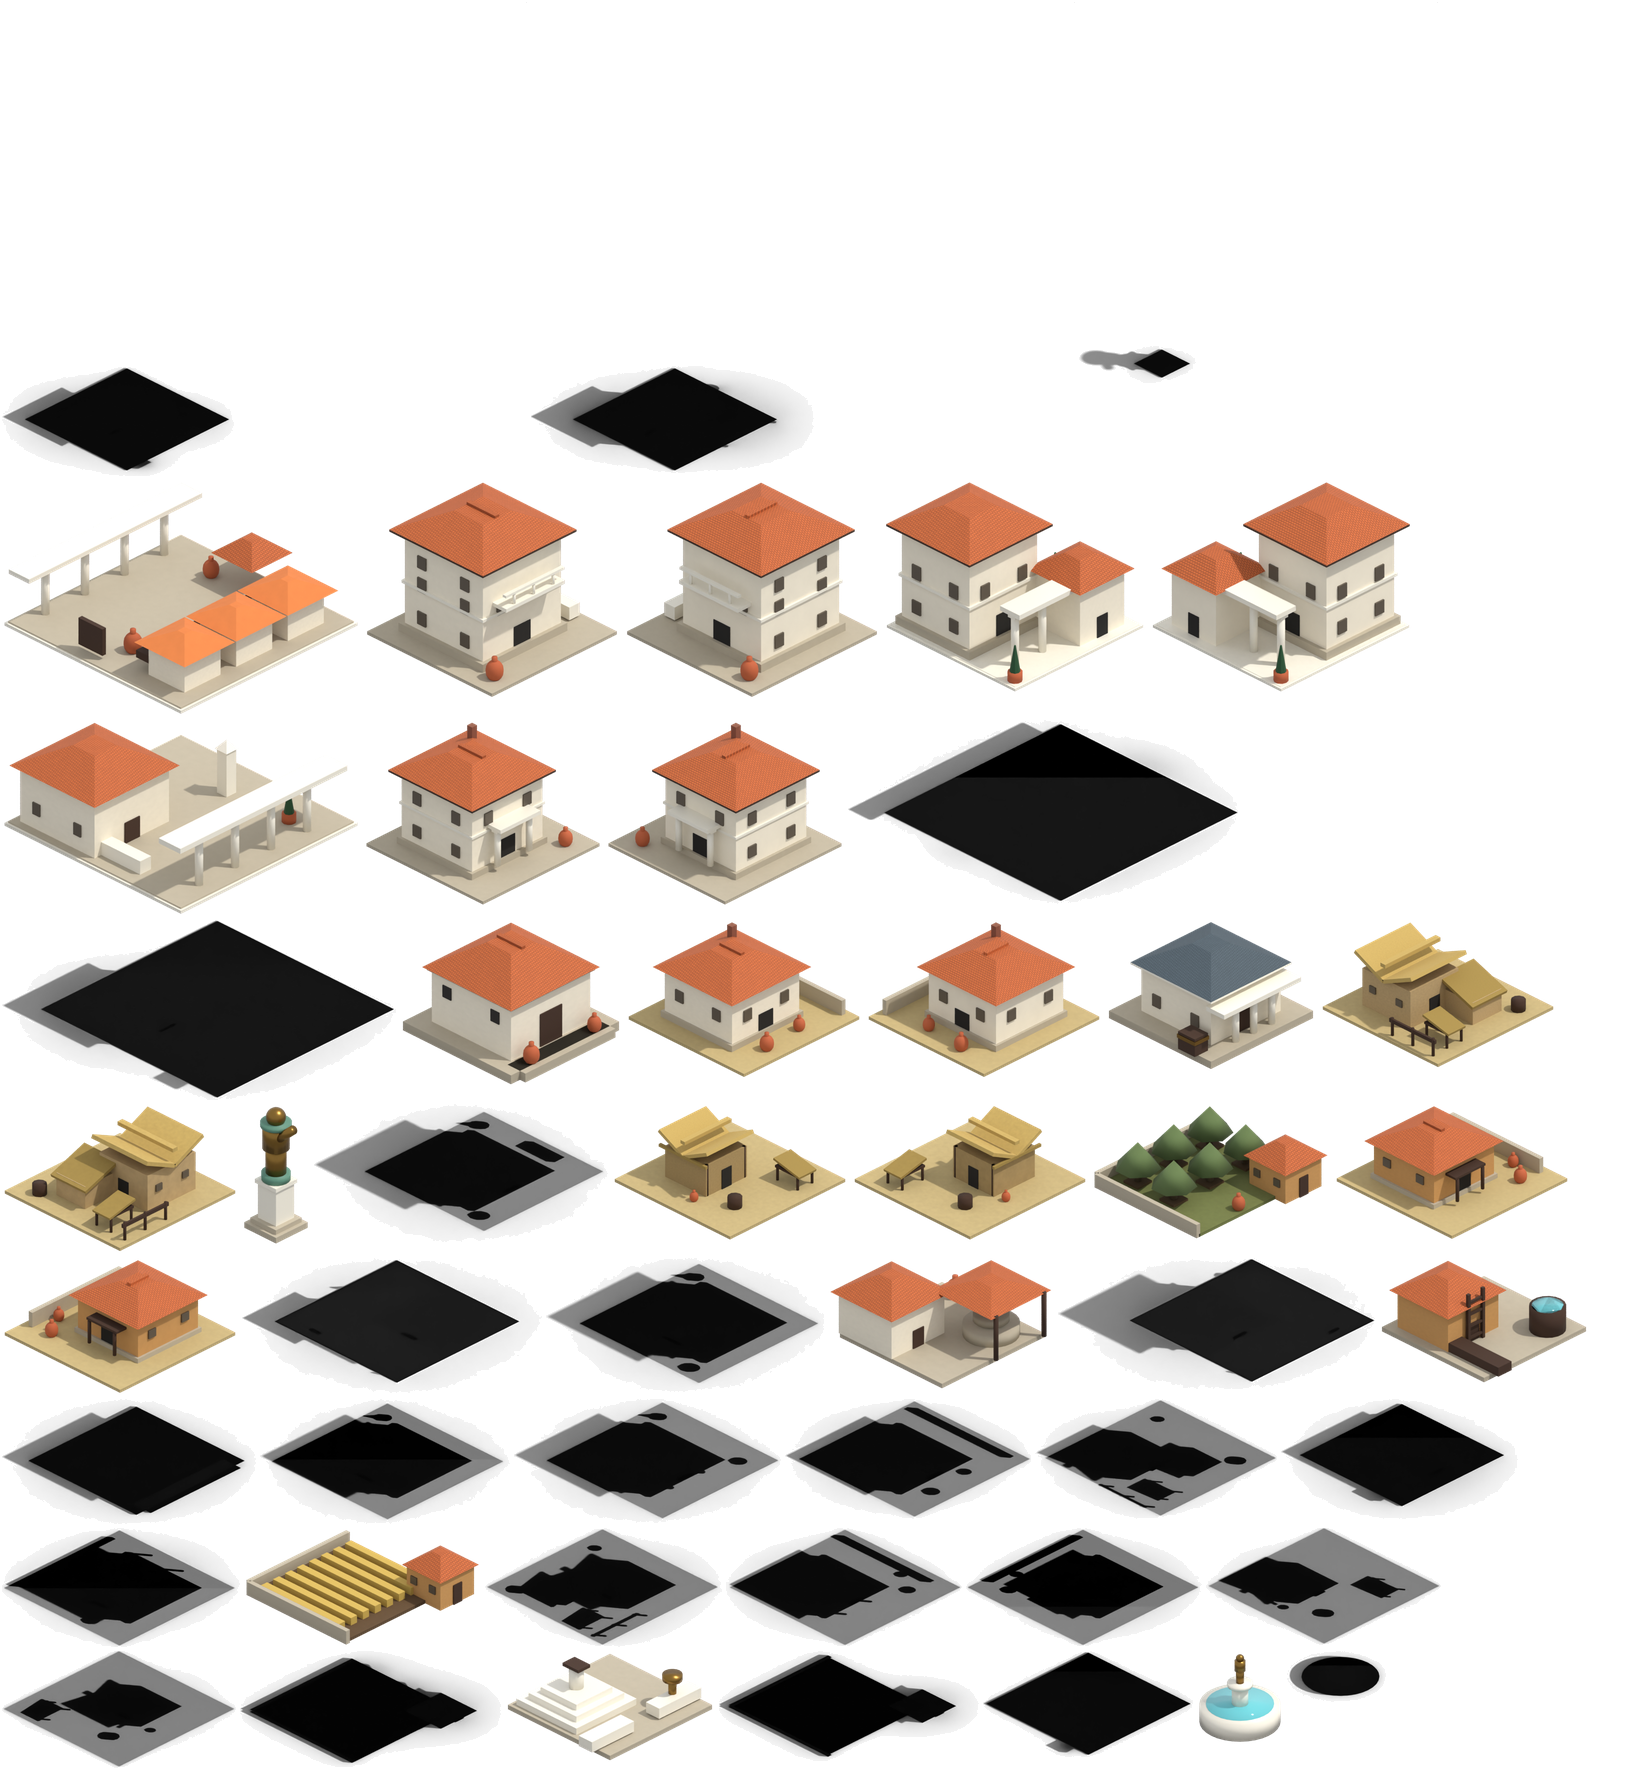
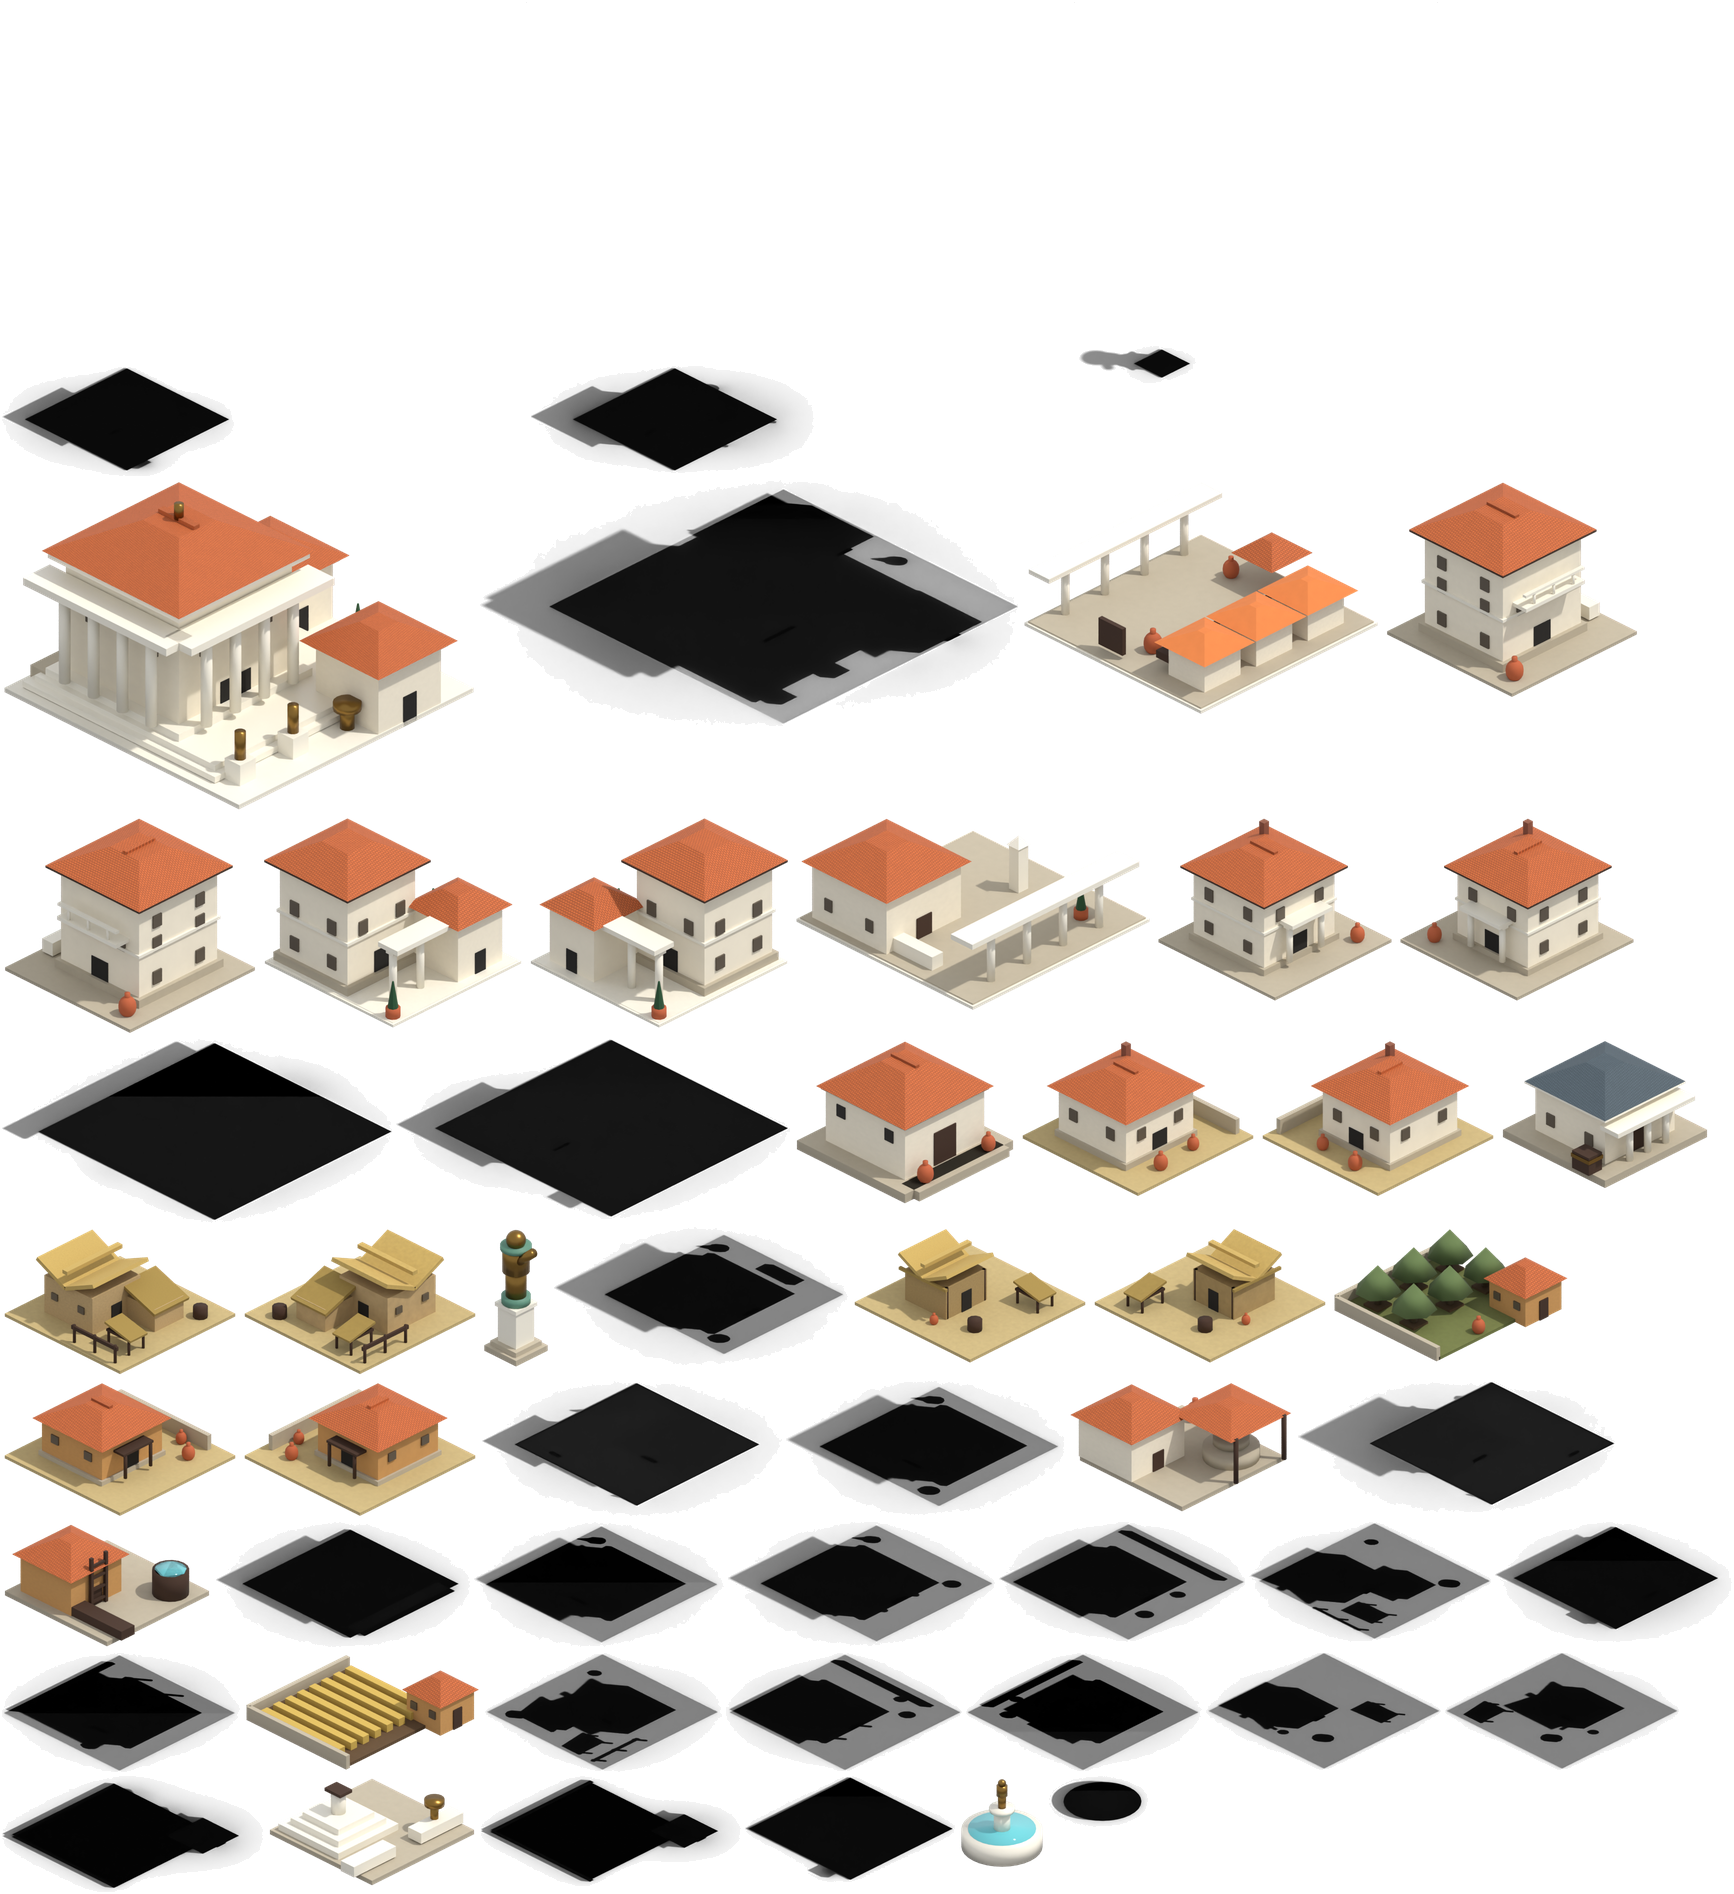
Raise the palace, and gate the tax office behind it
In Zeus nothing that governs the city may be built without a palace. BuildingDef
gains a requires field, canPlace refuses with the reason, and the tax office is
the first thing behind the gate. The model is a colonnaded marble hall on a
stepped terrace with wings, statues and braziers — 4x4 rather than the original
9x6, since the grid holds square footprints.

diff --git a/src/sim/buildings.ts b/src/sim/buildings.ts
@@ -14,6 +14,7 @@ export interface BuildingDef {
   appeal: AppealBands;
   requiresMeadow: boolean;
   needsRoad: boolean;
+  requires: BuildingKind | null;
   produces: Good | null;
   consumes: Good | null;
   accepts: Good | null;
@@ -140,6 +141,7 @@ export const BUILDINGS: Record<BuildingKind, BuildingDef> = {
     appeal: HOUSE_TIERS[0].appeal,
     requiresMeadow: false,
     needsRoad: true,
+    requires: null,
     produces: null,
     consumes: null,
     accepts: null,
@@ -162,6 +164,7 @@ export const BUILDINGS: Record<BuildingKind, BuildingDef> = {
     appeal: { initial: -3, bandSize: 1, step: 1, range: 3 },
     requiresMeadow: true,
     needsRoad: true,
+    requires: null,
     produces: 'food',
     consumes: null,
     accepts: null,
@@ -184,6 +187,7 @@ export const BUILDINGS: Record<BuildingKind, BuildingDef> = {
     appeal: { initial: -2, bandSize: 1, step: 1, range: 2 },
     requiresMeadow: true,
     needsRoad: true,
+    requires: null,
     produces: 'olives',
     consumes: null,
     accepts: null,
@@ -206,6 +210,7 @@ export const BUILDINGS: Record<BuildingKind, BuildingDef> = {
     appeal: { initial: -4, bandSize: 1, step: 1, range: 3 },
     requiresMeadow: false,
     needsRoad: true,
+    requires: null,
     produces: 'oil',
     consumes: 'olives',
     accepts: 'olives',
@@ -228,6 +233,7 @@ export const BUILDINGS: Record<BuildingKind, BuildingDef> = {
     appeal: { initial: -12, bandSize: 1, step: 2, range: 4 },
     requiresMeadow: false,
     needsRoad: true,
+    requires: null,
     produces: null,
     consumes: null,
     accepts: 'food',
@@ -250,6 +256,7 @@ export const BUILDINGS: Record<BuildingKind, BuildingDef> = {
     appeal: { initial: 12, bandSize: 2, step: -2, range: 6 },
     requiresMeadow: false,
     needsRoad: true,
+    requires: null,
     produces: null,
     consumes: null,
     accepts: null,
@@ -272,6 +279,7 @@ export const BUILDINGS: Record<BuildingKind, BuildingDef> = {
     appeal: { initial: -5, bandSize: 1, step: -3, range: 3 },
     requiresMeadow: false,
     needsRoad: true,
+    requires: null,
     produces: null,
     consumes: null,
     accepts: null,
@@ -294,6 +302,7 @@ export const BUILDINGS: Record<BuildingKind, BuildingDef> = {
     appeal: { initial: 3, bandSize: 1, step: -1, range: 3 },
     requiresMeadow: false,
     needsRoad: true,
+    requires: null,
     produces: null,
     consumes: null,
     accepts: null,
@@ -316,6 +325,7 @@ export const BUILDINGS: Record<BuildingKind, BuildingDef> = {
     appeal: { initial: -2, bandSize: 1, step: 1, range: 2 },
     requiresMeadow: false,
     needsRoad: true,
+    requires: null,
     produces: null,
     consumes: null,
     accepts: null,
@@ -338,6 +348,7 @@ export const BUILDINGS: Record<BuildingKind, BuildingDef> = {
     appeal: { initial: 4, bandSize: 2, step: -2, range: 4 },
     requiresMeadow: false,
     needsRoad: true,
+    requires: null,
     produces: null,
     consumes: null,
     accepts: null,
@@ -360,6 +371,7 @@ export const BUILDINGS: Record<BuildingKind, BuildingDef> = {
     appeal: { initial: 8, bandSize: 1, step: -1, range: 3 },
     requiresMeadow: false,
     needsRoad: false,
+    requires: null,
     produces: null,
     consumes: null,
     accepts: null,
@@ -382,6 +394,7 @@ export const BUILDINGS: Record<BuildingKind, BuildingDef> = {
     appeal: { initial: -4, bandSize: 1, step: 1, range: 2 },
     requiresMeadow: false,
     needsRoad: true,
+    requires: 'palace',
     produces: null,
     consumes: null,
     accepts: null,
@@ -390,6 +403,29 @@ export const BUILDINGS: Record<BuildingKind, BuildingDef> = {
     fireRisk: 6,
     damageRisk: 5,
     description: 'Sends a clerk to collect tax from the houses he passes.',
+  },
+  palace: {
+    kind: 'palace',
+    name: 'Palace',
+    size: 4,
+    cost: 125,
+    colour: 0xf2ecdc,
+    roofColour: 0xb8502c,
+    height: 40,
+    workers: 0,
+    maxWalkers: 0,
+    appeal: { initial: 18, bandSize: 3, step: -3, range: 6 },
+    requiresMeadow: false,
+    needsRoad: true,
+    requires: null,
+    produces: null,
+    consumes: null,
+    accepts: null,
+    supplies: null,
+    capacity: 0,
+    fireRisk: 0,
+    damageRisk: 2,
+    description: 'The seat of your rule. Nothing that governs the city may be built until it stands.',
   },
 };
 
@@ -404,6 +440,7 @@ export const PLACEABLE: BuildingKind[] = [
   'podium',
   'maintenanceOffice',
   'fountain',
+  'palace',
   'taxOffice',
   'statue',
 ];

diff --git a/src/sim/prerequisites.test.ts b/src/sim/prerequisites.test.ts
@@ -1,0 +1,41 @@
+import { describe, expect, test } from 'bun:test';
+import { BUILDINGS } from './buildings';
+import { World } from './world';
+
+function city(): World {
+  const world = new World(24, 7);
+  for (let x = 1; x < 23; x++) world.grid.road[world.grid.index(x, 6)] = 1;
+  world.treasury = 1000;
+  return world;
+}
+
+describe('prerequisites', () => {
+  test('a tax office waits for the palace', () => {
+    const world = city();
+
+    expect(world.canPlace('taxOffice', 4, 7)).toEqual({
+      ok: false,
+      reason: 'Not until a palace stands',
+    });
+
+    expect(world.place('palace', 10, 7)).toBe(true);
+    expect(world.canPlace('taxOffice', 4, 7).ok).toBe(true);
+  });
+
+  test('nothing else waits for anything', () => {
+    const gated = Object.values(BUILDINGS).filter((def) => def.requires !== null);
+
+    expect(gated.map((def) => def.kind)).toEqual(['taxOffice']);
+  });
+
+  test('the palace lifts appeal across six rings', () => {
+    const world = city();
+    world.place('palace', 8, 7);
+    world.settle();
+
+    const { grid } = world;
+    expect(grid.appeal[grid.index(12, 8)]).toBe(18);
+    expect(grid.appeal[grid.index(15, 8)]).toBe(15);
+    expect(grid.appeal[grid.index(18, 8)]).toBe(0);
+  });
+});

diff --git a/src/sim/world.ts b/src/sim/world.ts
@@ -123,6 +123,9 @@ export class World {
   canPlace(kind: BuildingKind, x: number, y: number): PlacementCheck {
     const def = BUILDINGS[kind];
     if (this.treasury < def.cost) return { ok: false, reason: 'Not enough drachmas' };
+    if (def.requires && !this.has(def.requires)) {
+      return { ok: false, reason: `Not until a ${BUILDINGS[def.requires].name.toLowerCase()} stands` };
+    }
 
     for (let dy = 0; dy < def.size; dy++) {
       for (let dx = 0; dx < def.size; dx++) {
@@ -135,6 +138,11 @@ export class World {
     }
     if (!this.grid.isFlat(x, y, def.size)) return { ok: false, reason: 'Ground must be level' };
     return { ok: true, reason: def.description };
+  }
+
+  has(kind: BuildingKind): boolean {
+    for (const building of this.buildings.values()) if (building.kind === kind) return true;
+    return false;
   }
 
   place(kind: BuildingKind, x: number, y: number): boolean {

diff --git a/src/ui/inspect.ts b/src/ui/inspect.ts
@@ -48,6 +48,7 @@ export function describeBuildingTool(kind: BuildingKind): Inspection {
   if (def.workers > 0) facts.push(['Workers', `${def.workers}`]);
   if (def.requiresMeadow) facts.push(['Ground', 'Meadow only']);
   if (def.needsRoad) facts.push(['Road', 'Must touch one']);
+  if (def.requires) facts.push(['Requires', BUILDINGS[def.requires].name]);
   facts.push(['Appeal', appealSummary(def)]);
 
   return { title: def.name, subtitle: 'Building', description: def.description, facts };

diff --git a/src/ui/hud.ts b/src/ui/hud.ts
@@ -239,6 +239,7 @@ function groupFor(kind: string): string {
   if (kind === 'wheatFarm' || kind === 'granary' || kind === 'growersLodge' || kind === 'agora') return 'Food';
   if (kind === 'olivePress') return 'Industry';
   if (kind === 'college' || kind === 'podium') return 'Culture';
+  if (kind === 'palace' || kind === 'taxOffice') return 'Government';
   return 'Services';
 }
 

diff --git a/src/sim/types.ts b/src/sim/types.ts
@@ -20,7 +20,8 @@ export type BuildingKind =
   | 'maintenanceOffice'
   | 'fountain'
   | 'statue'
-  | 'taxOffice';
+  | 'taxOffice'
+  | 'palace';
 
 export type ServiceSupply = Record<ServiceKind, number>;
 

diff --git a/src/render/textures.ts b/src/render/textures.ts
@@ -66,6 +66,7 @@ const FOOTPRINT_INSET: Record<BuildingKind, number> = {
   fountain: 1,
   statue: 1,
   taxOffice: 0.88,
+  palace: 0.86,
   agora: 0.94,
   growersLodge: 1,
   olivePress: 0.88,

diff --git a/pipeline/iso_render.py b/pipeline/iso_render.py
@@ -920,6 +920,67 @@ def build_tax_office():
     return {"kind": "taxOffice", "variant": 0, "footprint": 2, "height": roof_z + roof_h + 0.1}
 
 
+def build_palace():
+    """Palace: a colonnaded hall on a stepped marble terrace, flanked by wings and statues."""
+    marble = material("marble", MARBLE, roughness=0.3)
+    paving = plaster_material("paving", MARBLE, roughness=0.6, variation=0.03, scale=18.0)
+    whitewash = plaster_material("whitewash", WHITEWASH, roughness=0.84, variation=0.04, scale=6.0)
+    terracotta = roof_material("terracotta", TERRACOTTA, rows_per_unit=18.0)
+    stone = plaster_material("stone", STONE, roughness=0.8, variation=0.05, scale=10.0)
+    bronze = material("bronze", BRONZE, roughness=0.35, metallic=1.0)
+    clay = material("clay", CLAY, roughness=0.8)
+    cypress = material("cypress", CYPRESS, roughness=0.9)
+
+    terrace = add_box("terrace", (0, 0, 0.03), (3.9, 3.9, 0.06), paving)
+    terrace.visible_shadow = False
+    for step, (size, z) in enumerate(((3.2, 0.11), (3.0, 0.19))):
+        add_box(f"step_{step}", (-0.2, -0.2, z), (size, size, 0.08), marble)
+
+    hall_half = 0.94
+    hall_h = 1.5
+    hx, hy = -0.5, -0.5
+    base_z = 0.23
+    add_box("stylobate", (hx, hy, base_z + 0.05), (hall_half * 2 + 0.34, hall_half * 2 + 0.34, 0.1), marble)
+    add_box("hall", (hx, hy, base_z + 0.1 + hall_h / 2), (hall_half * 2, hall_half * 2, hall_h), whitewash)
+    add_box("architrave", (hx, hy, base_z + 0.1 + hall_h + 0.04), (hall_half * 2 + 0.3, hall_half * 2 + 0.3, 0.09), marble)
+    add_doorway(hall_half, 0.62, (hx, hy), width=0.5)
+    add_window_row(hall_half, base_z + 1.0, (0.16, 0.24), (hx, hy), on_door_face=True)
+
+    roof_z = base_z + 0.1 + hall_h + 0.09
+    roof_h = 0.42
+    add_hip_roof("hall_roof", (hx, hy, roof_z + roof_h / 2), hall_half + 0.2, roof_h, terracotta, ridge_half=0.3)
+    add_box("ridge", (hx, hy, roof_z + roof_h + 0.02), (0.6, 0.09, 0.06), terracotta)
+    add_cylinder("finial", (hx, hy, roof_z + roof_h + 0.12), 0.06, 0.2, bronze, vertices=10)
+
+    for offset in (-0.72, -0.24, 0.24, 0.72):
+        add_cylinder("column_east", (hx + hall_half + 0.24, hy + offset, base_z + 0.1 + 0.6), 0.07, 1.2, marble, vertices=16)
+        add_box("capital_east", (hx + hall_half + 0.24, hy + offset, base_z + 0.1 + 1.22), (0.18, 0.18, 0.06), marble)
+        add_cylinder("column_south", (hx + offset, hy - hall_half - 0.24, base_z + 0.1 + 0.6), 0.07, 1.2, marble, vertices=16)
+        add_box("capital_south", (hx + offset, hy - hall_half - 0.24, base_z + 0.1 + 1.22), (0.18, 0.18, 0.06), marble)
+    add_box("portico_east", (hx + hall_half + 0.24, hy, base_z + 1.36), (0.44, hall_half * 2 + 0.5, 0.1), marble)
+    add_box("portico_south", (hx, hy - hall_half - 0.24, base_z + 1.36), (hall_half * 2 + 0.5, 0.44, 0.1), marble)
+
+    wing_half = 0.52
+    wing_h = 0.78
+    for wx, wy in ((1.42, 0.9), (-0.9, 1.42)):
+        add_box("wing", (wx, wy, 0.06 + wing_h / 2), (wing_half * 2, wing_half * 2, wing_h), whitewash)
+        add_box("wing_cornice", (wx, wy, 0.06 + wing_h + 0.03), (wing_half * 2 + 0.12, wing_half * 2 + 0.12, 0.06), marble)
+        add_hip_roof("wing_roof", (wx, wy, 0.06 + wing_h + 0.2), wing_half + 0.14, 0.26, terracotta, ridge_half=0.16)
+        add_doorway(wing_half, 0.4, (wx, wy))
+
+    for sx, sy in ((1.52, -1.5), (1.52, -0.62)):
+        add_box("plinth", (sx, sy, 0.2), (0.26, 0.26, 0.28), marble)
+        add_cylinder("statue", (sx, sy, 0.52), 0.07, 0.36, bronze, vertices=12)
+    add_cylinder("brazier", (1.56, 0.24, 0.2), 0.09, 0.28, bronze, vertices=12)
+    add_cylinder("brazier_bowl", (1.56, 0.24, 0.36), 0.17, 0.1, bronze, vertices=16)
+    add_cypress_pot("cypress1", (-1.74, 0.7, 0.06), 0.5, clay, cypress)
+    add_cypress_pot("cypress2", (0.24, 1.74, 0.06), 0.46, clay, cypress)
+    add_amphora("jar", (-1.7, -0.4, 0.06), 0.34, clay)
+    add_box("bench", (-1.74, -1.2, 0.16), (0.26, 0.8, 0.2), stone)
+
+    return {"kind": "palace", "variant": 0, "footprint": 4, "height": roof_z + roof_h + 0.34}
+
+
 def build_fountain():
     """Marble basin with a raised centre and a small bronze statue; light blue water."""
     marble = material("marble", MARBLE, roughness=0.3)
@@ -1011,6 +1072,7 @@ HOUSES = [
 ]
 
 MODELS = {
+    "palace": build_palace,
     "granary": build_granary,
     "tax-office": build_tax_office,
     "agora": build_agora,

diff --git a/README.md b/README.md
@@ -177,8 +177,8 @@ analytically from that camera rather than eyeballed. A Cycles shadow-catcher pla
 becomes the shadow sprite, framed wide enough for the shadow the sun actually casts.
 
 Models live in `pipeline/iso_render.py`: the seven housing tiers, wheat farm, growers'
-lodge, olive press, granary, agora, college, podium, maintenance office, tax office,
-fountain and statue, each rendered as a body and a shadow. Sprites are keyed by
+lodge, olive press, granary, agora, college, podium, maintenance office, palace, tax
+office, fountain and statue, each rendered as a body and a shadow. Sprites are keyed by
 `kind:variant:layer` — housing uses `tier * 2`, plus one for the mirrored copy.
 
 Mirrored variants reflect across `x = -y`, and the reflection is **baked into the mesh
@@ -193,8 +193,8 @@ The game picks it up with no client changes.
 
 The full inventory lives in [docs/roadmap.md](docs/roadmap.md). Next up:
 
-1. **Palace** — required before taxes or any military, as in the original.
-2. **Gods** — sanctuaries, gods that visit and bless or curse.
+1. **Gods** — sanctuaries, gods that visit and bless or curse.
+2. **Military** — rabble and hoplites raised from housing, invasions that head for the palace.
 3. **Campaign** — more than one scenario, episodes, ratings, failure conditions.
 
 ## Art licence

diff --git a/docs/roadmap.md b/docs/roadmap.md
@@ -263,8 +263,9 @@ difficulty).
 🟡 Tax office, clerk and the `TRM × people × rate` table are in `src/sim/taxation.ts`,
 with the seven rates and multiplier 1 below homestead, 2 above. Fire and damage risk
 per building, and the maintenance office whose superintendent clears both, are in
-`src/sim/hazards.ts`. The palace prerequisite, elite multipliers, infirmary, watchpost,
-crime, unrest and plague are not.
+`src/sim/hazards.ts`. The palace stands, 4×4 rather than 9×6 because the grid holds
+square footprints, and `BuildingDef.requires` gates the tax office behind it. Elite
+multipliers, infirmary, watchpost, crime, unrest and plague are not started.
 
 ---
 
